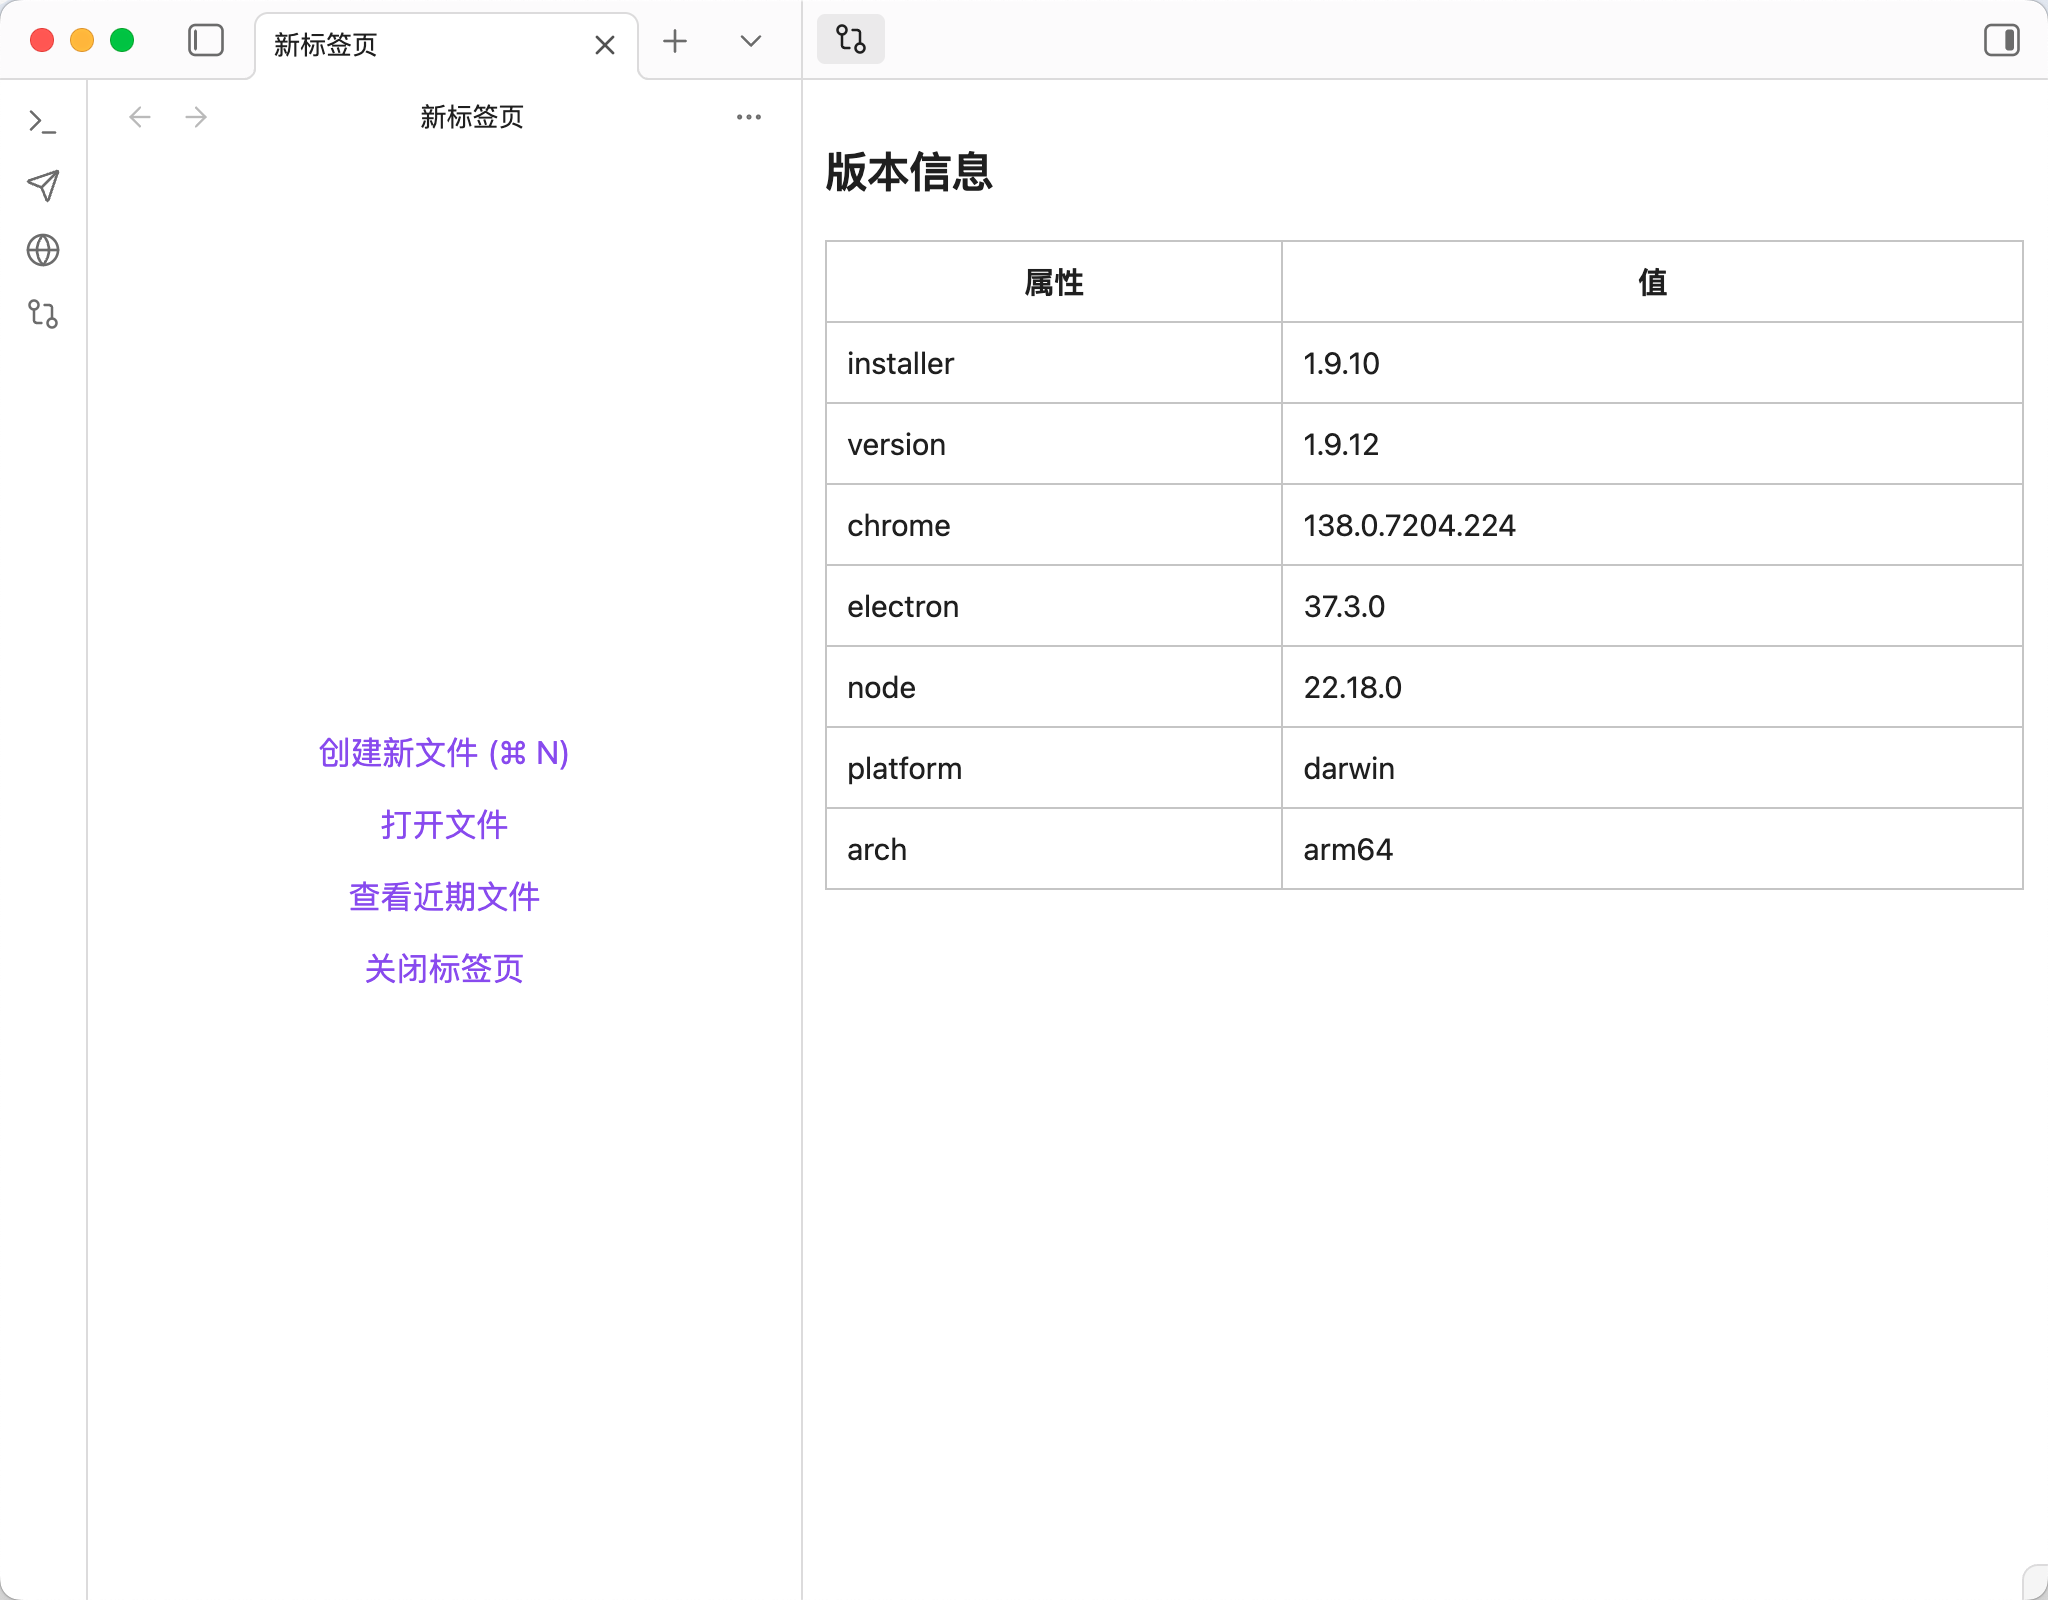
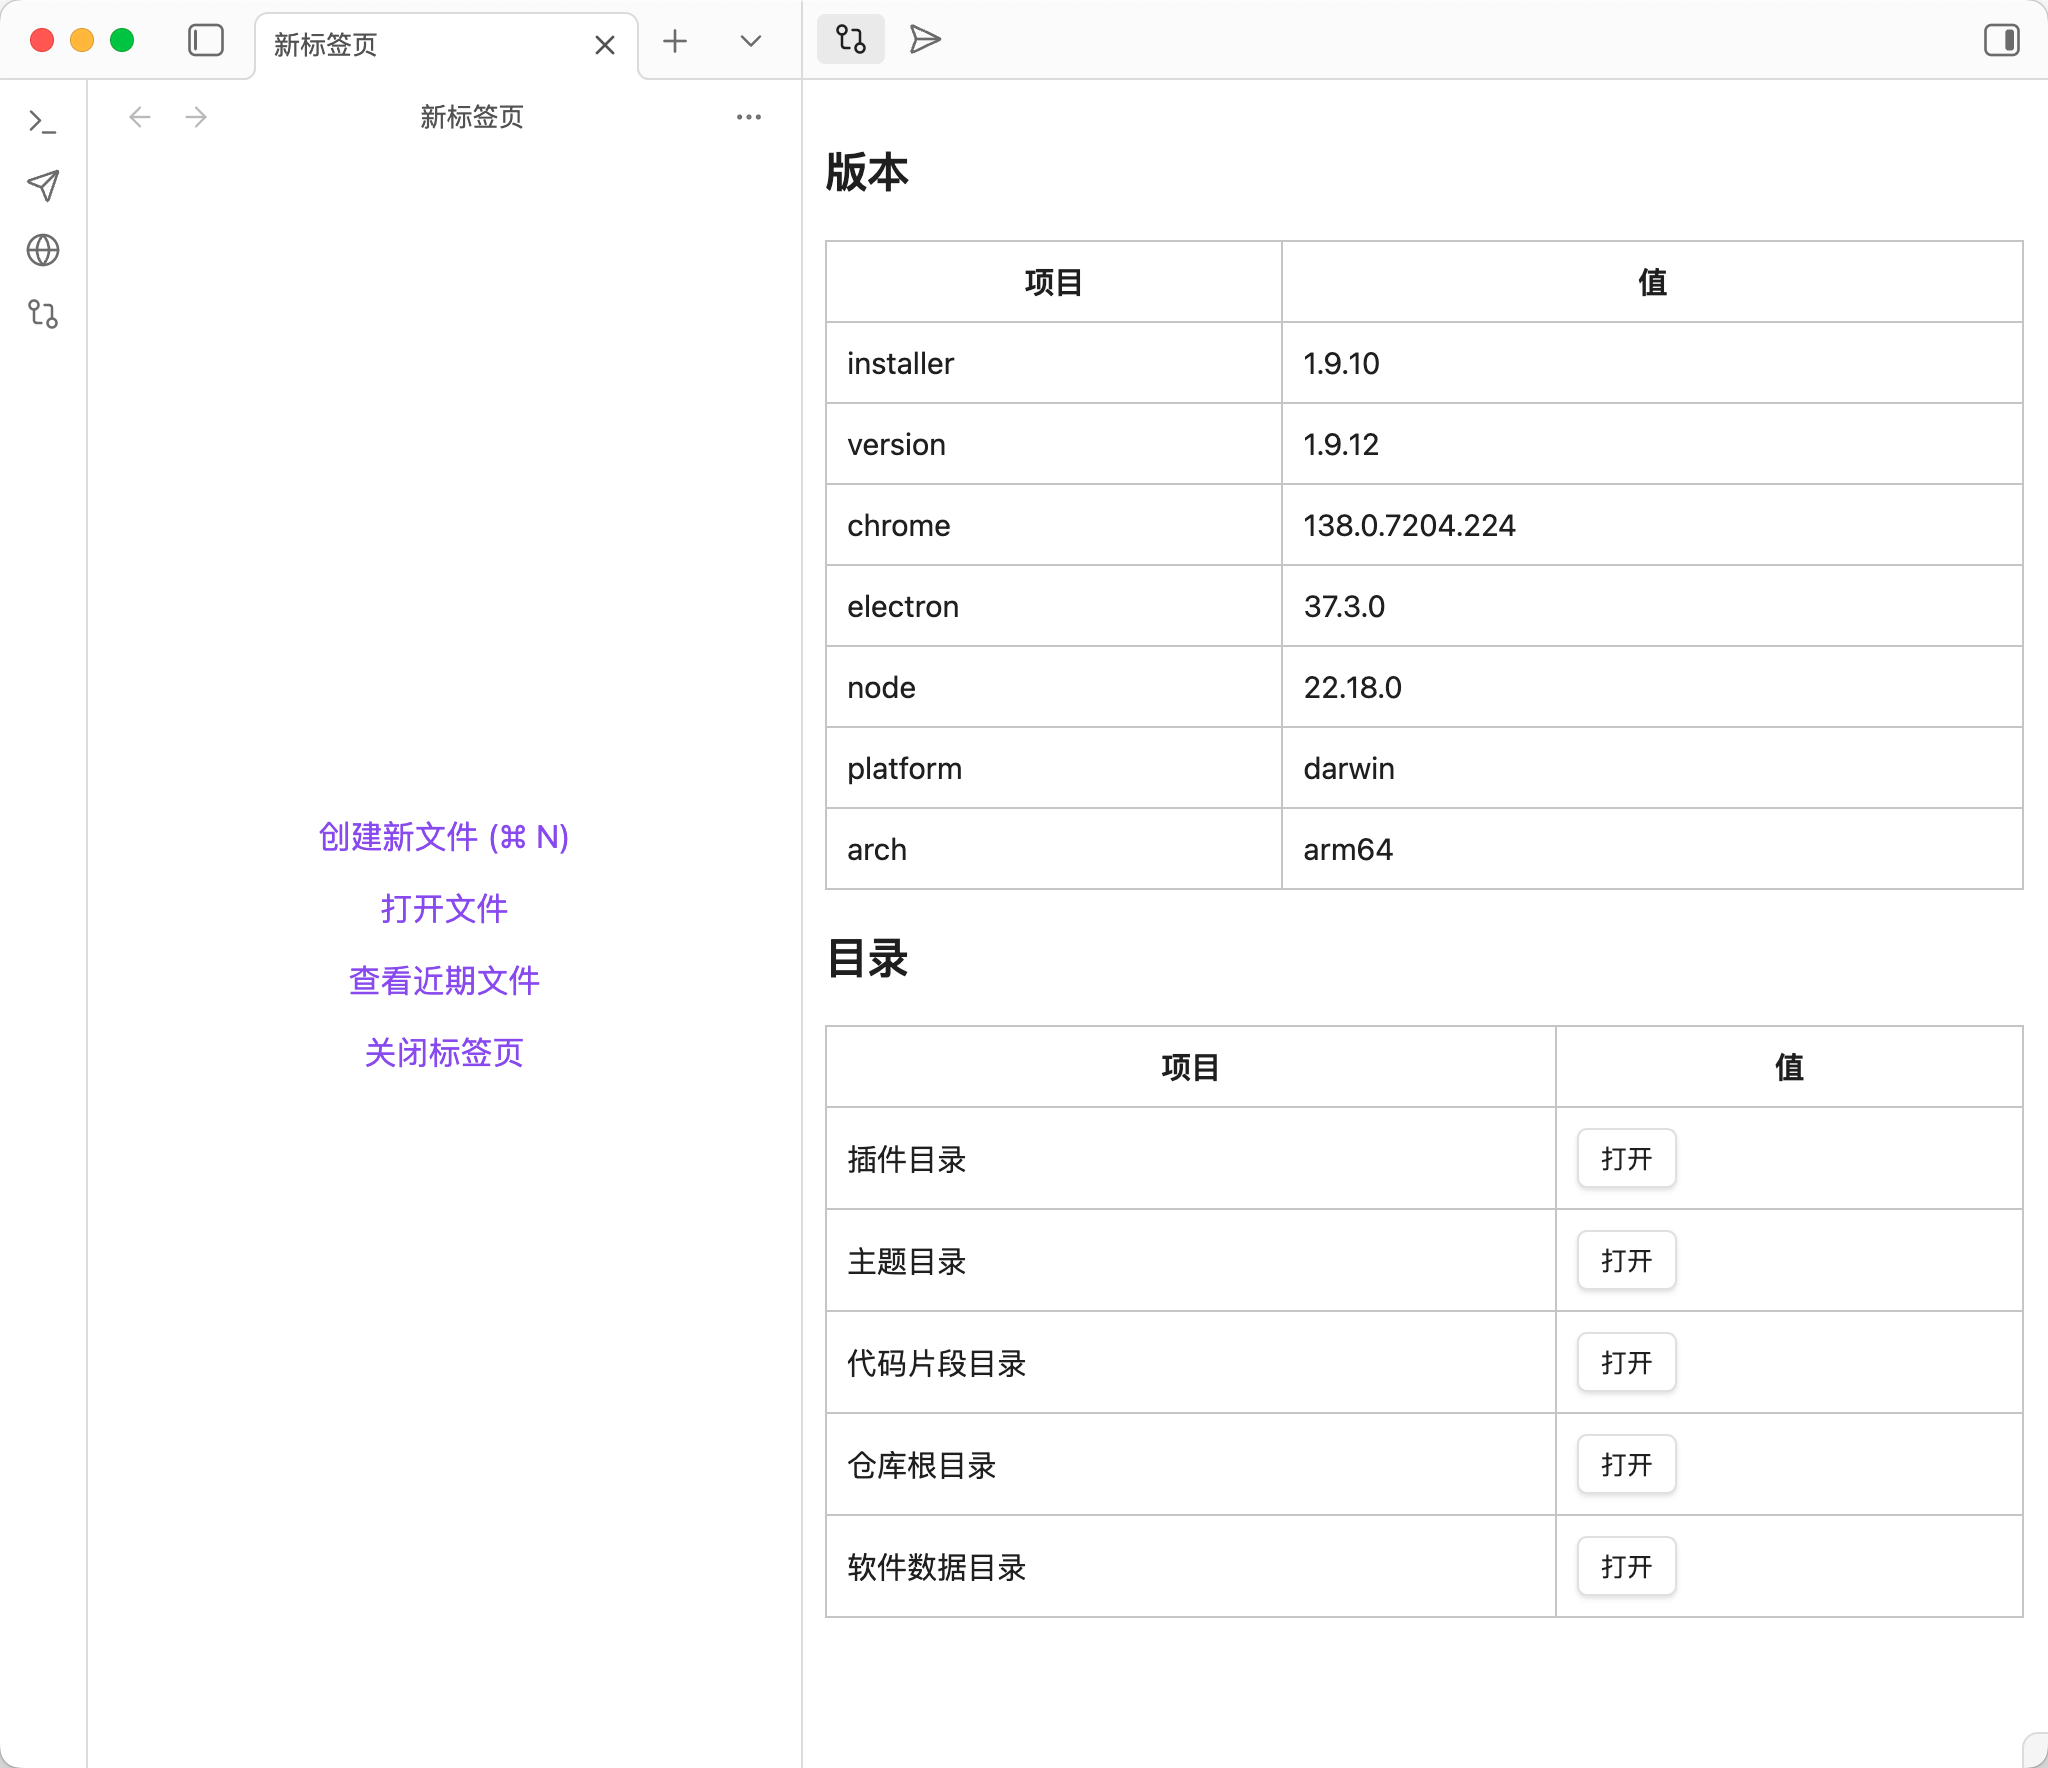
update

diff --git a/main.js b/main.js
@@ -1,5 +1,6 @@
-const {Plugin, ItemView, apiVersion} = require("obsidian")
-let { app } = require("@electron/remote");
+const {Plugin, ItemView, apiVersion, FileSystemAdapter} = require("obsidian")
+let {app, shell} = require("@electron/remote");
+const path = require("path");
 
 const VIEW_TYPE_VERSION_INFO = 'version-info-view';
 
@@ -22,36 +23,76 @@ class VersionInfoView extends ItemView {
 
     addRow(tbody, name, value) {
         const row = tbody.createEl('tr');
-        row.createEl('td', { text: name });
-        row.createEl('td', { text: value });
+        row.createEl('td', {text: name});
+        row.createEl('td', {text: value});
+    }
+
+    addRowAction(tbody, name, path) {
+        const row = tbody.createEl('tr');
+        row.createEl('td', {text: name});
+        const td = row.createEl('td');
+        td.createEl('button', {
+            text: '打开',
+            onclick: () => {
+                shell.showItemInFolder(path)
+            }
+        });
     }
 
     async onOpen() {
         const {contentEl} = this
         contentEl.empty()
 
-        contentEl.createEl('h3', { text: '版本信息' });
+        contentEl.createEl('h3', {text: '版本'});
+        {
+            // Create the table element
+            const table = contentEl.createEl('table');
 
-        // Create the table element
-        const table = contentEl.createEl('table');
+            // Create table header
+            const thead = table.createEl('thead');
+            const headerRow = thead.createEl('tr');
+            headerRow.createEl('th', {text: '项目'});
+            headerRow.createEl('th', {text: '值'});
 
-        // Create table header
-        const thead = table.createEl('thead');
-        const headerRow = thead.createEl('tr');
-        headerRow.createEl('th', { text: '属性' });
-        headerRow.createEl('th', { text: '值' });
+            // Create table body
+            const tbody = table.createEl('tbody');
 
-        // Create table body
-        const tbody = table.createEl('tbody');
+            // Add some info rows
+            this.addRow(tbody, 'installer', app.getVersion())
+            this.addRow(tbody, 'version', apiVersion)
+            this.addRow(tbody, 'chrome', process.versions.chrome)
+            this.addRow(tbody, 'electron', process.versions.electron)
+            this.addRow(tbody, 'node', process.versions.node)
+            this.addRow(tbody, 'platform', process.platform)
+            this.addRow(tbody, 'arch', process.arch)
+        }
 
-        // Add some info rows
-        this.addRow(tbody, 'installer', app.getVersion())
-        this.addRow(tbody, 'version', apiVersion)
-        this.addRow(tbody, 'chrome', process.versions.chrome)
-        this.addRow(tbody, 'electron', process.versions.electron)
-        this.addRow(tbody, 'node', process.versions.node)
-        this.addRow(tbody, 'platform', process.platform)
-        this.addRow(tbody, 'arch', process.arch)
+        contentEl.createEl('h3', {text: '目录'});
+        {
+            // Create the table element
+            const table = contentEl.createEl('table');
+
+            // Create table header
+            const thead = table.createEl('thead');
+            const headerRow = thead.createEl('tr');
+            headerRow.createEl('th', {text: '项目'});
+            headerRow.createEl('th', {text: '值'});
+
+            // Create table body
+            const tbody = table.createEl('tbody');
+            const adapter = this.app.vault.adapter
+            if (adapter instanceof FileSystemAdapter) {
+                const configDir = adapter.getFullPath(this.app.vault.configDir)
+                const pluginsDir = path.join(configDir, 'plugins')
+                const themesDir = path.join(configDir, 'themes')
+                const snippetsDir = path.join(configDir, 'snippets')
+                this.addRowAction(tbody, '插件目录', pluginsDir)
+                this.addRowAction(tbody, '主题目录', themesDir)
+                this.addRowAction(tbody, '代码片段目录', snippetsDir)
+                this.addRowAction(tbody, '仓库根目录', path.dirname(configDir))
+                this.addRowAction(tbody, '软件数据目录', app.getPath('userData'))
+            }
+        }
     }
 
     async onClose() {
@@ -72,12 +113,13 @@ class VersionInfoPlugin extends Plugin {
             this.activateView()
         });
     }
+
     onunload() {
     }
 
     // 激活视图
     async activateView() {
-        const { workspace } = this.app;
+        const {workspace} = this.app;
 
         let leaf;
         const leaves = workspace.getLeavesOfType(VIEW_TYPE_VERSION_INFO).filter(leaf => leaf.view instanceof VersionInfoView)
@@ -88,7 +130,7 @@ class VersionInfoPlugin extends Plugin {
         } else {
             // Our view could not be found in the workspace, create a new leaf in the right sidebar for it
             leaf = workspace.getRightLeaf(false);
-            await leaf.setViewState({ type: VIEW_TYPE_VERSION_INFO, active: true });
+            await leaf.setViewState({type: VIEW_TYPE_VERSION_INFO, active: true});
         }
 
         // "Reveal" the leaf in case it is in a collapsed sidebar
